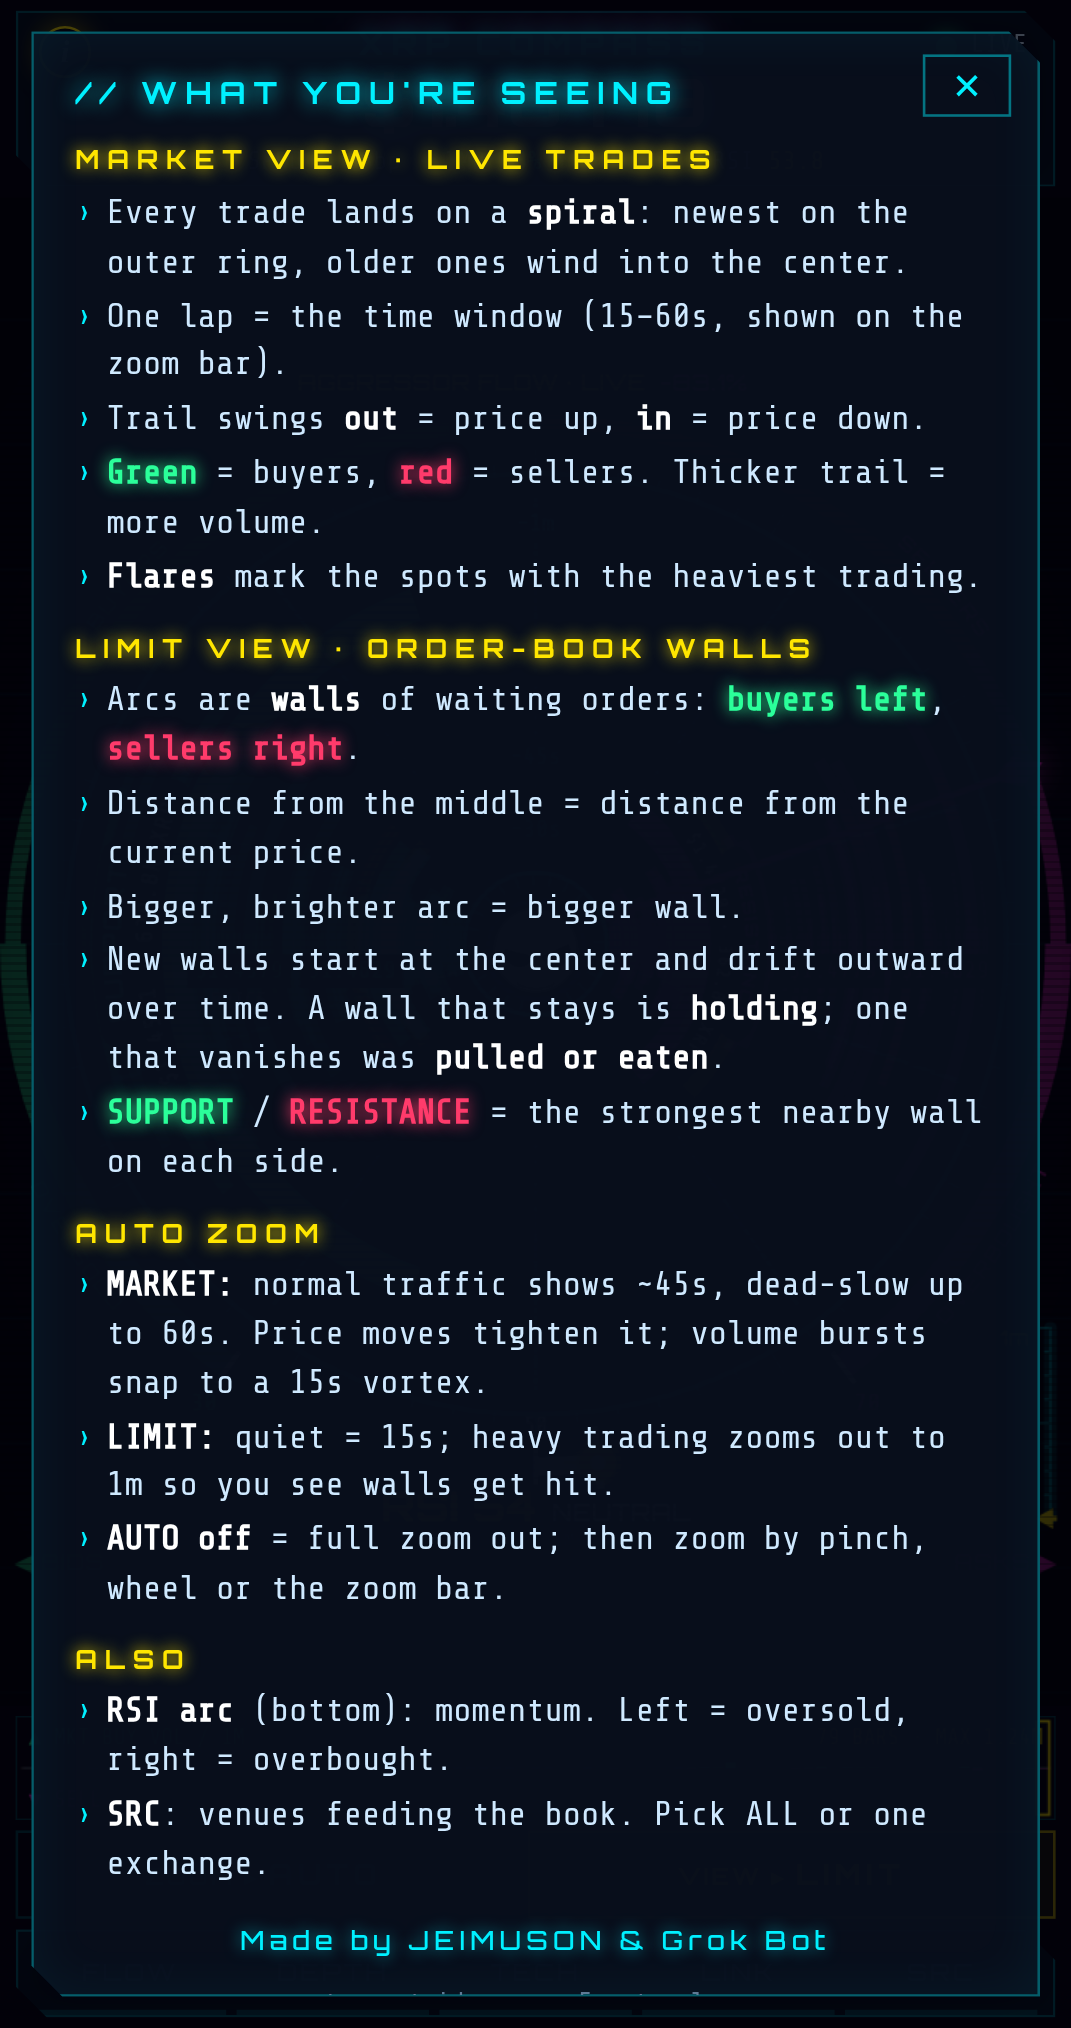
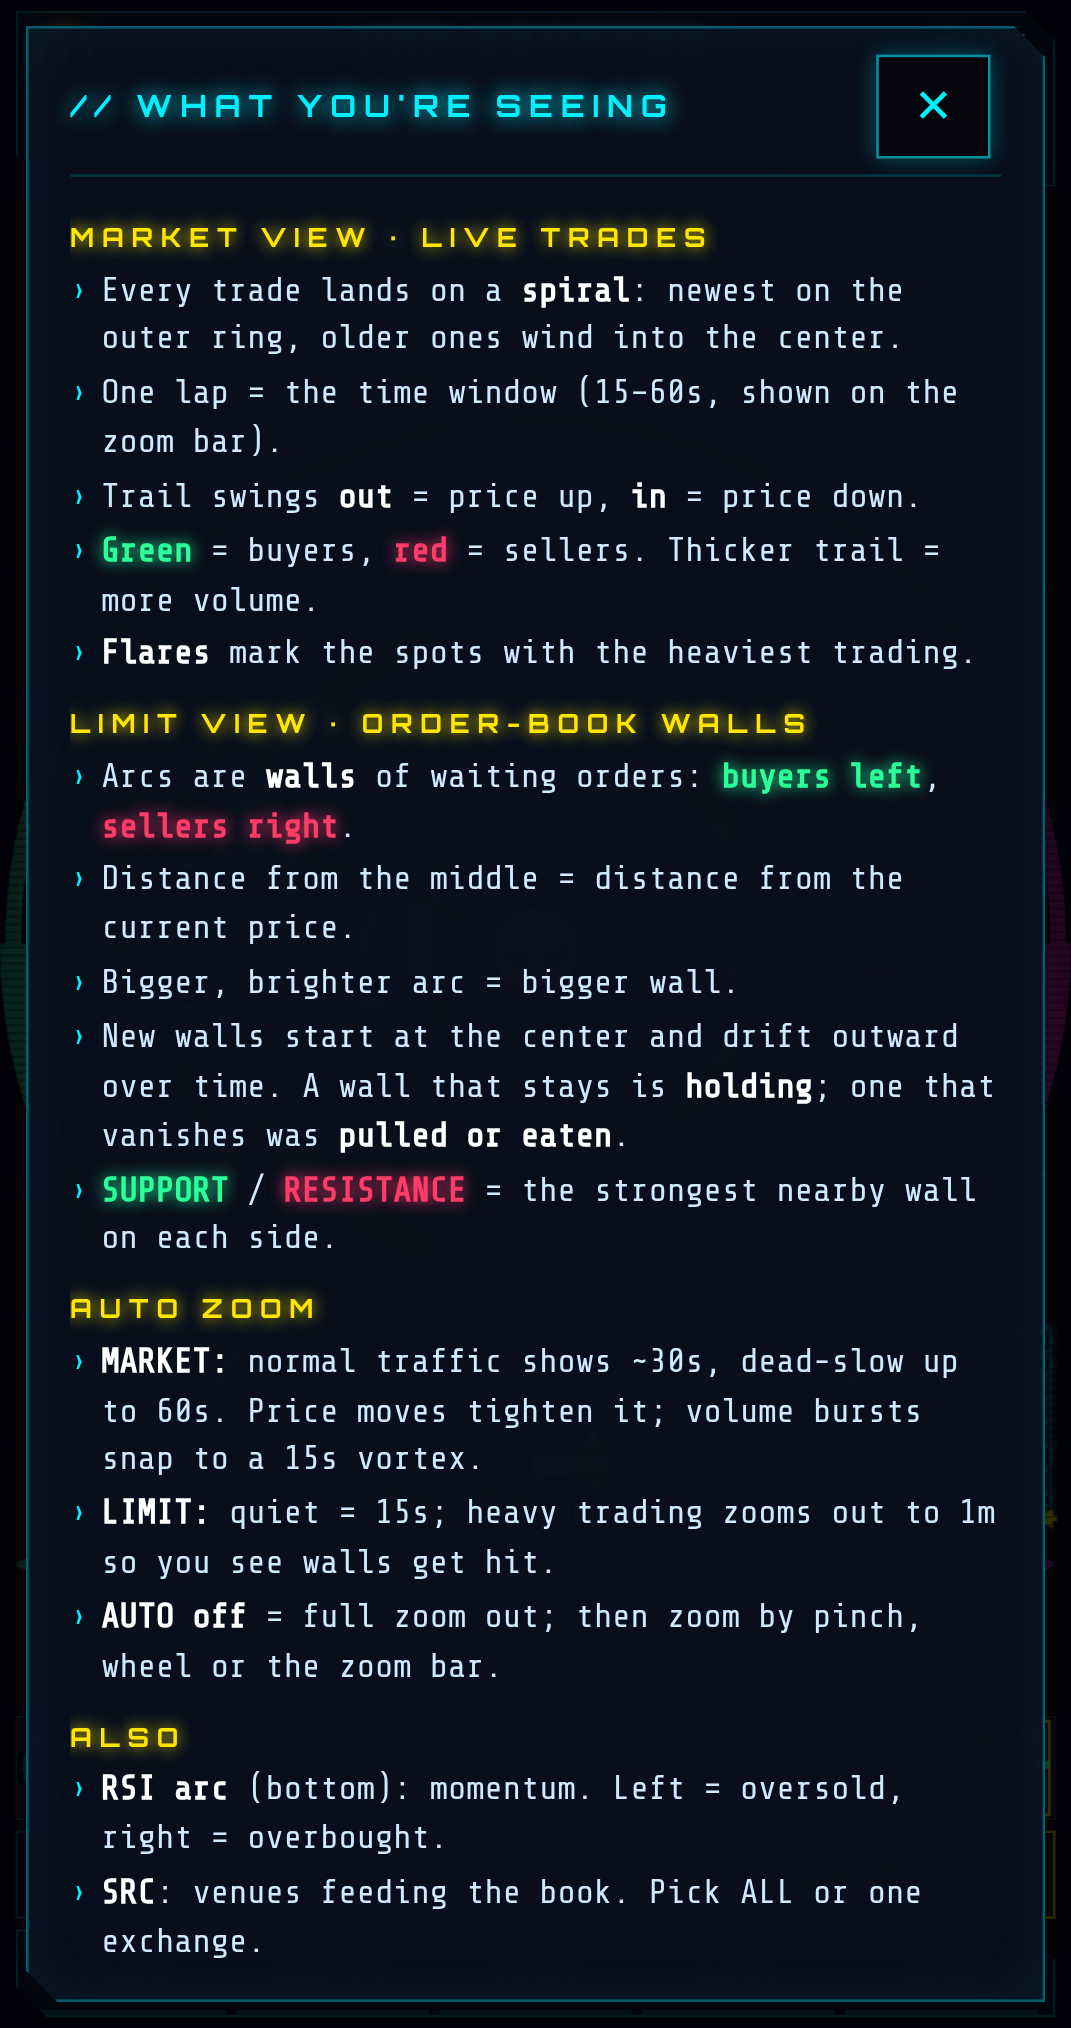
Info panel: fixed header with always-visible 44x40 close, dvh sizing, bottom inset; MARKET AUTO baseline 30s (build 20261002-1552)

diff --git a/index.html b/index.html
@@ -3,7 +3,7 @@
 <head>
 <meta charset="utf-8">
 <meta http-equiv="Cache-Control" content="no-cache, no-store, must-revalidate"><meta http-equiv="Pragma" content="no-cache"><meta http-equiv="Expires" content="0">
-<script>window.OFC_BUILD='20261002-1520';(function(){try{if(!/^https?:/.test(location.protocol))return;fetch(location.pathname+'?_='+Date.now(),{cache:'no-store'}).then(r=>r.text()).then(t=>{const m=t.match(/OFC_BUILD='([^']+)'/);if(m&&m[1]!==window.OFC_BUILD&&sessionStorage.getItem('ofcB')!==m[1]){sessionStorage.setItem('ofcB',m[1]);location.replace(location.pathname+'?v='+m[1]+location.hash);}}).catch(()=>{});}catch(e){}})();</script>
+<script>window.OFC_BUILD='20261002-1552';(function(){try{if(!/^https?:/.test(location.protocol))return;fetch(location.pathname+'?_='+Date.now(),{cache:'no-store'}).then(r=>r.text()).then(t=>{const m=t.match(/OFC_BUILD='([^']+)'/);if(m&&m[1]!==window.OFC_BUILD&&sessionStorage.getItem('ofcB')!==m[1]){sessionStorage.setItem('ofcB',m[1]);location.replace(location.pathname+'?v='+m[1]+location.hash);}}).catch(()=>{});}catch(e){}})();</script>
 <meta name="viewport" content="width=device-width,initial-scale=1,viewport-fit=cover,user-scalable=no">
 <meta name="theme-color" content="#05030c">
 <meta name="color-scheme" content="dark">
@@ -135,16 +135,18 @@ body.hublogo #top .logo{display:none}   /* mobile: logo lives in the compass hub
 }
 #infoBtn{position:absolute;left:8px;top:5px;width:20px;height:20px;padding:0;border-radius:50%;background:rgba(5,3,12,.6);border:1px solid rgba(0,240,255,.55);color:var(--cy);font:italic 700 12px/18px Georgia,serif;text-align:center;cursor:pointer;z-index:2;box-shadow:0 0 6px rgba(0,240,255,.35)}
 #infoBtn:hover,#infoBtn:focus-visible{color:#fff;border-color:var(--yl);box-shadow:0 0 10px rgba(255,230,0,.5);outline:none}
-#info{display:none;position:fixed;inset:0;z-index:60;background:rgba(2,1,8,.72);align-items:center;justify-content:center;padding:calc(var(--st) + 12px) 12px calc(var(--sb) + 12px)}
+#info{display:none;position:fixed;left:0;right:0;top:0;height:100vh;height:100dvh;z-index:60;background:rgba(2,1,8,.72);align-items:center;justify-content:center;padding:calc(var(--st) + 10px) calc(env(safe-area-inset-right,0px) + 10px) calc(var(--sb) + 10px) calc(env(safe-area-inset-left,0px) + 10px)}   /* dvh: fits the visible area even with the Android URL bar */
 #info.on{display:flex}
-#infoBox{position:relative;width:min(560px,100%);max-height:100%;overflow-y:auto;-webkit-overflow-scrolling:touch;overscroll-behavior:contain;background:rgba(8,14,28,.97);padding:14px 16px 12px;font-size:13px;line-height:1.45;color:#cfe9ff;-webkit-user-select:text;user-select:text;touch-action:pan-y}
-#infoBox h2{font-family:Orbitron,sans-serif;font-size:12px;letter-spacing:3px;color:var(--cy);text-shadow:0 0 8px var(--cy);margin:0 40px 8px 0}
+#infoBox{position:relative;display:flex;flex-direction:column;width:min(560px,100%);max-height:100%;min-height:0;overflow:hidden;background:rgba(8,14,28,.97);padding:14px 16px 16px;font-size:13px;line-height:1.45;color:#cfe9ff;-webkit-user-select:text;user-select:text;touch-action:pan-y}
+#infoHd{flex:0 0 auto;display:flex;align-items:center;justify-content:space-between;gap:8px;margin:-4px 0 6px;padding-bottom:6px;border-bottom:1px solid rgba(0,240,255,.18)}   /* header row never scrolls: X always visible */
+#infoBody{flex:1 1 auto;min-height:0;overflow-y:auto;-webkit-overflow-scrolling:touch;overscroll-behavior:contain;touch-action:pan-y;padding:0 2px 6px 0;scroll-padding-bottom:16px}   /* bottom inset matches the sides, while scrolling and at the end */
+#infoBox h2{font-family:Orbitron,sans-serif;font-size:12px;letter-spacing:3px;color:var(--cy);text-shadow:0 0 8px var(--cy);margin:0}
 #infoBox h3{font-size:10px;margin:10px 0 4px}
 #infoBox ul{list-style:none}
 #infoBox li{position:relative;padding-left:12px;margin:2px 0}
 #infoBox li:before{content:'›';position:absolute;left:0;color:var(--cy)}
 #infoBox b{color:#fff;font-weight:700}#infoBox b.gr{color:var(--gr)}#infoBox b.rd{color:var(--rd)}
-#infoX{position:absolute;top:8px;right:10px;width:34px;height:24px;background:transparent;border:1px solid rgba(0,240,255,.45);color:var(--cy);font-size:14px;cursor:pointer}
+#infoX{flex:0 0 auto;position:relative;z-index:2;width:44px;height:40px;margin-right:4px;padding:0;background:rgba(5,3,12,.85);border:1px solid rgba(0,240,255,.6);color:var(--cy);font-size:18px;line-height:38px;font-family:system-ui,sans-serif;cursor:pointer;touch-action:manipulation;box-shadow:0 0 8px rgba(0,240,255,.3)}
 .infoCred{font-family:Orbitron,sans-serif;font-size:10px;letter-spacing:2px;color:var(--cy);text-align:center;margin-top:12px;text-shadow:0 0 6px rgba(0,240,255,.6)}
 #credit{position:absolute;left:50%;bottom:2px;transform:translateX(-50%);z-index:9;pointer-events:none;white-space:nowrap;font-size:8px;letter-spacing:1px;color:rgba(160,200,230,.32)}
 @media (min-aspect-ratio:1/1){#credit{left:6px;transform:none;bottom:3px;font-size:9px}}
@@ -155,8 +157,8 @@ body.hublogo #top .logo{display:none}   /* mobile: logo lives in the compass hub
 </head>
 <body>
 <div id="info" role="dialog" aria-modal="true" aria-labelledby="infoT"><div id="infoBox" class="panel">
- <button id="infoX" aria-label="close">✕</button>
- <h2 id="infoT">// WHAT YOU'RE SEEING</h2>
+ <div id="infoHd"><h2 id="infoT">// WHAT YOU'RE SEEING</h2><button id="infoX" aria-label="close">✕</button></div>
+ <div id="infoBody">
  <h3>MARKET VIEW · LIVE TRADES</h3>
  <ul><li>Every trade lands on a <b>spiral</b>: newest on the outer ring, older ones wind into the center.</li>
  <li>One lap = the time window (15–60s, shown on the zoom bar).</li>
@@ -170,7 +172,7 @@ body.hublogo #top .logo{display:none}   /* mobile: logo lives in the compass hub
  <li>New walls start at the center and drift outward over time. A wall that stays is <b>holding</b>; one that vanishes was <b>pulled or eaten</b>.</li>
  <li><b class="gr">SUPPORT</b> / <b class="rd">RESISTANCE</b> = the strongest nearby wall on each side.</li></ul>
  <h3>AUTO ZOOM</h3>
- <ul><li><b>MARKET:</b> normal traffic shows ~45s, dead-slow up to 60s. Price moves tighten it; volume bursts snap to a 15s vortex.</li>
+ <ul><li><b>MARKET:</b> normal traffic shows ~30s, dead-slow up to 60s. Price moves tighten it; volume bursts snap to a 15s vortex.</li>
  <li><b>LIMIT:</b> quiet = 15s; heavy trading zooms out to 1m so you see walls get hit.</li>
  <li><b>AUTO off</b> = full zoom out; then zoom by pinch, wheel or the zoom bar.</li></ul>
  <h3>ALSO</h3>
@@ -178,6 +180,7 @@ body.hublogo #top .logo{display:none}   /* mobile: logo lives in the compass hub
  <li><b>SRC</b>: venues feeding the book. Pick ALL or one exchange.</li></ul>
  <div class="infoCred">Made by JEIMUSON &amp; Grok Bot</div>
  <div class="infoFoot">tap outside, ✕ or Esc to close</div>
+ </div>
 </div></div>
 <div id="app">
 <div id="colA"><div id="stage"><canvas id="cv"></canvas><div id="vig"></div><div id="scan"></div><canvas id="lcv"></canvas><div id="credit" aria-hidden="true">Made by JEIMUSON &amp; Grok Bot</div></div><canvas id="vcv"></canvas></div>
@@ -411,10 +414,11 @@ let burst={on:false,until:0,rel:0,r3:0,base:0,usd3:0};
 // LIMIT + AUTO (opposite of MARKET): quiet tape -> 15 s depth; heavier traffic vs the 60 s baseline -> deeper, toward 1 m; burst -> full 1 m.
 // rho = 3 s USD rate / 60 s baseline: rho<=1 -> 15 s, rho=2 -> 30 s, rho>=3 (=BURST_X) or burst -> 60 s (log scale). Deeper targets hold 5 s (burst: +6.5 s burst hold) before easing back in.
 let LT={w:15,hold:0,rho:0};
-// MARKET + AUTO window: volume sets the baseline (normal -> 45 s, dead-slow -> 60 s); price moves tighten it toward 15 s; a volume burst snaps to 15 s.
-//  q  = 60 s USD rate / 10 min EMA of that rate:   q>=0.6 -> 45 s,  q<=0.25 -> 60 s (log-interp between)
+// MARKET + AUTO window: volume sets the baseline (normal -> 30 s, dead-slow -> 60 s); price moves tighten it toward 15 s; a volume burst snaps to 15 s.
+//  q  = 60 s USD rate / 10 min EMA of that rate:   q>=0.6 -> 30 s,  q<=0.25 -> 60 s (log-interp between)
 //  z  = max |mid move| over last 10 s / 5 min EMA of that same measure (typical 10 s move):  z<=1.5 -> no change, z>=4 -> 15 s (log-interp)
-let MT={w:45,hold:0,q:1,z:0,vb:0,sg:0,t0:0,mp:[]};
+const MBASE=30;   // MARKET AUTO normal-traffic window
+let MT={w:30,hold:0,q:1,z:0,vb:0,sg:0,t0:0,mp:[]};
 setInterval(()=>{if(!trades.length)return;const n=Date.now();let u3=0,u60=0,old=n;
   for(let i=trades.length-1;i>=0;i--){const t=trades[i],ag=n-t.t;if(ag>63000)break;const u=t.qty*t.px;if(ag<=3000)u3+=u;else u60+=u;old=Math.min(old,t.t);}
   const bspan=Math.min(60,(n-old)/1000-3), base=bspan>=20?u60/bspan:0, r3=u3/3;
@@ -429,7 +433,7 @@ setInterval(()=>{if(!trades.length)return;const n=Date.now();let u3=0,u60=0,old=
     if(span10>=8){const a=1-Math.exp(-0.25/Math.min(300,10+el));MT.sg=MT.sg?MT.sg+(Math.max(mv,fl)-MT.sg)*a:Math.max(mv,fl);}
     if(base>0){const a=1-Math.exp(-0.25/Math.min(600,20+el));MT.vb=MT.vb?MT.vb+(base-MT.vb)*a:base;}
     MT.q=bspan>=20&&MT.vb>0?base/MT.vb:1; MT.z=MT.sg>0&&span10>=8?mv/MT.sg:0;
-    const kv=cl((MT.q-0.25)/0.35), wv=MWMAX*Math.pow(45/MWMAX,kv), kp=cl((MT.z-1.5)/2.5);
+    const kv=cl((MT.q-0.25)/0.35), wv=MWMAX*Math.pow(MBASE/MWMAX,kv), kp=cl((MT.z-1.5)/2.5);
     const wt=n<burst.until?BURST_WIN:wv*Math.pow(WMIN/wv,kp);
     if(wt<=MT.w){MT.w=wt;MT.hold=n+3000;}else if(n>MT.hold)MT.w=wt;}
   const was=burst.on;burst.on=n<burst.until;if(was&&!burst.on)burst.rel=n;},250);
@@ -1559,7 +1563,7 @@ function frame(){
   if(mid&&sortedB.length>5&&sortedA.length>5){
     {const db=mid-sortedB[Math.floor(sortedB.length*0.7)][0], da=sortedA[Math.floor(sortedA.length*0.7)][0]-mid;let f;
       if(VIEW==='market'){ // fit the recent trade price range so bubbles spread across the dial
-        const Wsel=burst.on?BURST_WIN:MT.w;   // volume burst -> tight vortex; else volume baseline (45/60 s) tightened by price moves (see MT)
+        const Wsel=burst.on?BURST_WIN:MT.w;   // volume burst -> tight vortex; else volume baseline (30/60 s) tightened by price moves (see MT)
         f=zR(Math.log(MWMAX/Wsel)/Math.log(MWMAX/WMIN));
       }else{f=Math.max(db,da)/mid;}
       f=Math.min(ZMAX,Math.max(ZMIN,f)); fitFrac=f;
